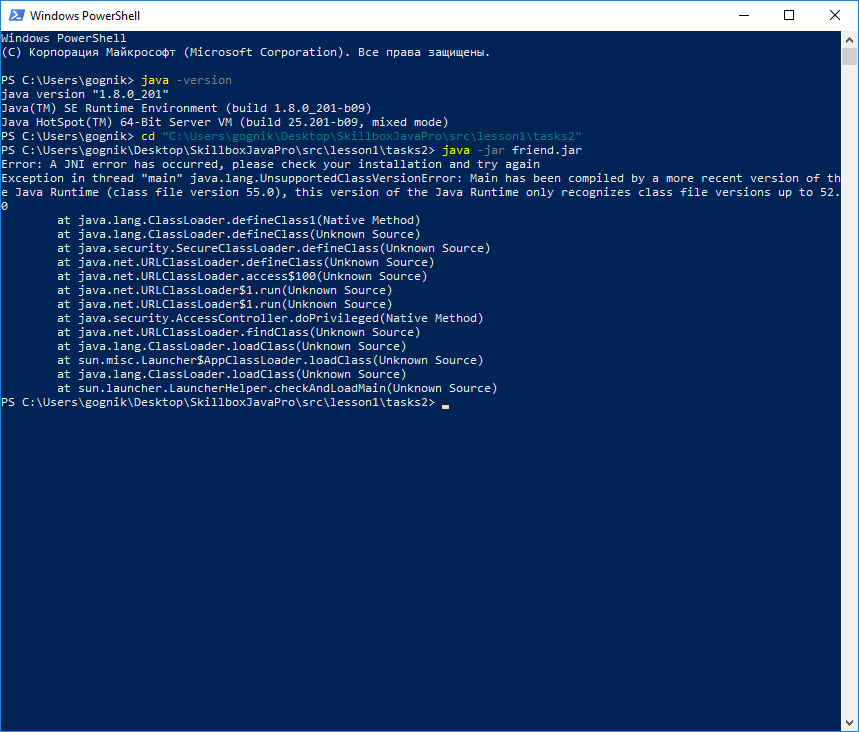
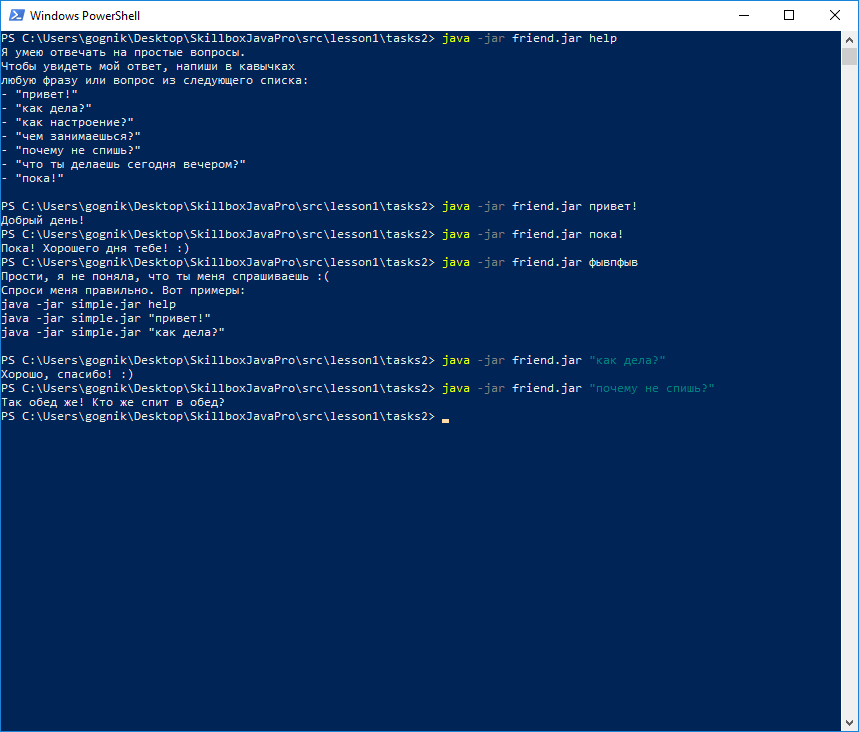
fix tasks2 and tasks5

diff --git a/src/lesson1/tasks5/RoadCamera/src/RoadCamera.java b/src/lesson1/tasks5/RoadCamera/src/RoadCamera.java
@@ -9,9 +9,9 @@ public class RoadCamera
     public static void main(String[] args) throws IOException
     {
         //Параметры программы
-        int maxOncomingSpeed = 30 + 30; // km/h
+        int maxOncomingSpeed = 60; // km/h
         int speedFineGrade = 20; // km/h
-        int finePerGrade = 500 * 2; // RUB
+        int finePerGrade = 1000; // RUB
         int criminalSpeed = 180; // km/h
 
         //=============================================================
@@ -27,7 +27,7 @@ public class RoadCamera
         else if(oncomingSpeed > maxOncomingSpeed)
         {
             int overSpeed = oncomingSpeed - maxOncomingSpeed;
-            int gradesCount = overSpeed / speedFineGrade;
+            int gradesCount = overSpeed / speedFineGrade + 1;
             int fine = finePerGrade * gradesCount;
             System.out.println("Сумма штрафа: " + fine);
         }
